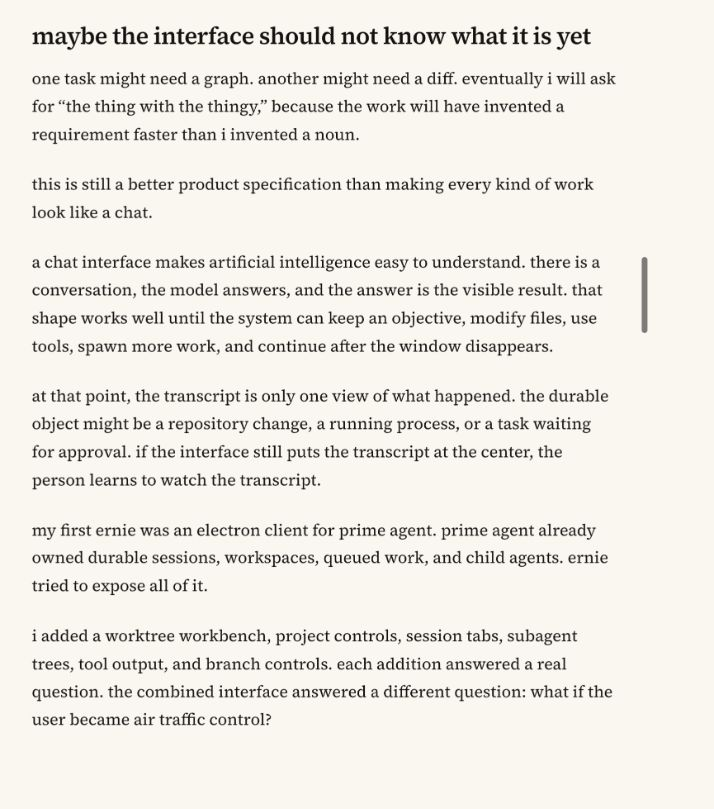
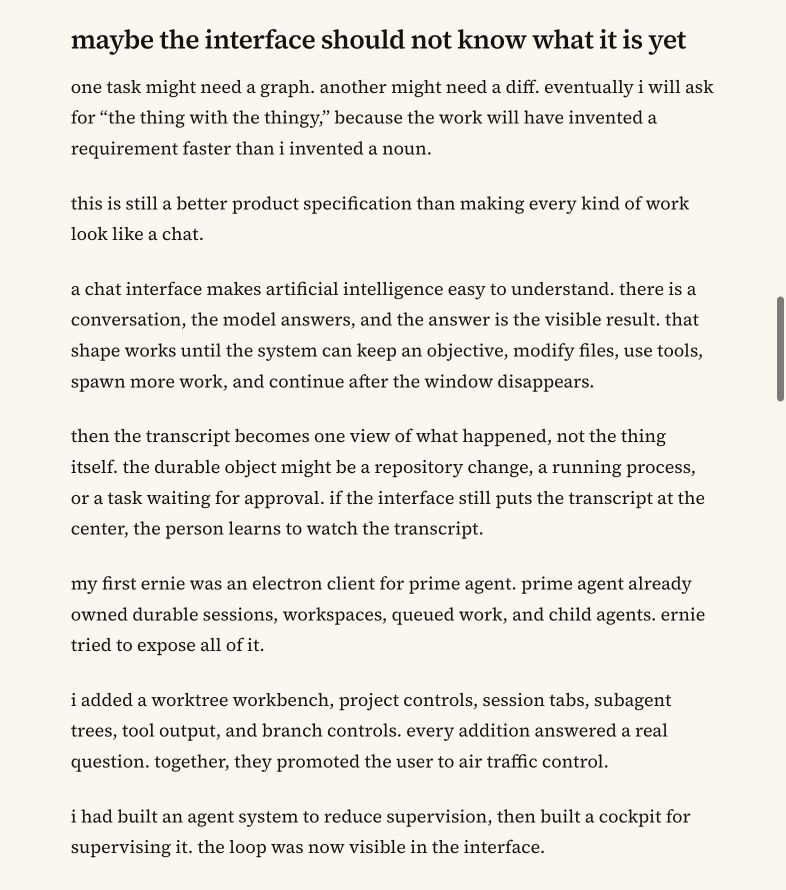
Rewrite Ernie as a deadpan build story

diff --git a/docs/ernie-development.md b/docs/ernie-development.md
@@ -1,42 +1,43 @@
 # i wanted a cooler agent harness and accidentally built two (and forked one)
 
-ernie began with a screenshot i wanted to exist.
+ernie began with a screenshot i wanted to exist. this was not an official
+requirements document, but it had excellent visual coverage.
 
-before the screenshot, i wanted one task to keep its context while i passed it
-from my laptop into a sandbox and back again. changing the execution environment
-should not have meant starting the work’s story over. the repository, the
-decisions, and the unfinished parts should still belong to the same task.
+underneath the screenshot was a smaller and more stubborn requirement. i
+wanted one task to keep its context while i passed it from my laptop into a
+sandbox and back again. changing the execution environment should not have
+meant starting the work’s story over. the repository, the decisions, and the
+unfinished parts should still belong to the same task.
 
-that was why i kept reaching for the words “server” and “daemon” before i could
-properly explain the rest of the system. the server could own the durable task,
-while a daemon translated that task into work inside each environment. the
-context needed to live somewhere that neither my laptop nor a temporary sandbox
-owned.
+this was why i kept saying “server” and “daemon” before i could explain the
+rest of the system. the architecture arrived as nouns. the server could own
+the durable task. a daemon could translate that task into work inside each
+environment. the context needed to live somewhere that neither my laptop nor a
+temporary sandbox owned.
 
-i wanted a desktop app where agents could keep working after i closed the
-window. their sessions would stay attached to repositories, their work would
-branch, and the evidence would still be there when i came back. ideally, the
-whole thing would look cool enough that i could point at it and say “agent
-harness” without having to explain what i had been doing all week.
+i also wanted a desktop app where agents could keep working after i closed the
+window. sessions would stay attached to repositories, work would branch, and
+the evidence would still be there when i came back. ideally, the app would look
+cool enough that i could point at it and say “agent harness” without explaining
+what i had been doing all week.
 
 wanting to look cool is not the official reason people give for starting
 software projects. it is, however, the reason i actually had.
 
-there was another idea underneath it. tools do not remain passive for long.
-people build a tool around one set of habits, then the tool makes those habits
-easier, and eventually the surrounding environment assumes everyone has
-adopted them.
+there was a theory under that motive. tools do not remain passive for long.
+people build a tool around one set of habits. the tool makes those habits
+easier. eventually, the surrounding environment assumes everyone has adopted
+them.
 
-cars are the obvious example. a car lets one person travel farther, but a city
-full of cars needs roads, parking, traffic lights, petrol stations, wider
+cars are the obvious example. a car lets one person travel farther. a city full
+of cars needs roads, parking, traffic lights, petrol stations, wider
 intersections, and buildings separated by car-sized distances. once that
 environment exists, owning a car becomes less optional. the machine changed
 the city, and the changed city made the machine necessary.
 
-software works on a smaller scale, which makes it easier to miss. an unread
-badge turns messages into obligations. infinite scroll removes the point where
-you would have stopped. a chat box teaches you to type something, wait, and
-read the reply.
+software can do this with less asphalt. an unread badge turns messages into
+obligations. infinite scroll removes the point where you would have stopped. a
+chat box teaches you to type something, wait, and read the reply.
 
 i wondered what the usual chat box was teaching us about agents.
 
@@ -51,110 +52,104 @@ look like a chat.
 
 a chat interface makes artificial intelligence easy to understand. there is a
 conversation, the model answers, and the answer is the visible result. that
-shape works well until the system can keep an objective, modify files, use
-tools, spawn more work, and continue after the window disappears.
+shape works until the system can keep an objective, modify files, use tools,
+spawn more work, and continue after the window disappears.
 
-at that point, the transcript is only one view of what happened. the durable
-object might be a repository change, a running process, or a task waiting for
-approval. if the interface still puts the transcript at the center, the person
-learns to watch the transcript.
+then the transcript becomes one view of what happened, not the thing itself.
+the durable object might be a repository change, a running process, or a task
+waiting for approval. if the interface still puts the transcript at the
+center, the person learns to watch the transcript.
 
 my first ernie was an electron client for prime agent. prime agent already
 owned durable sessions, workspaces, queued work, and child agents. ernie tried
 to expose all of it.
 
 i added a worktree workbench, project controls, session tabs, subagent trees,
-tool output, and branch controls. each addition answered a real question. the
-combined interface answered a different question: what if the user became air
-traffic control?
+tool output, and branch controls. every addition answered a real question.
+together, they promoted the user to air traffic control.
 
-i spent more time supervising the agent system i had built to reduce
-supervision. this seemed inefficient, even by the generous standards of a
-personal research project.
+i had built an agent system to reduce supervision, then built a cockpit for
+supervising it. the loop was now visible in the interface.
 
-on august 10, i removed the interface. the first commit reported
+on august 10, i tested a smaller design through subtraction. the first commit
+reported
 [10,338 deletions](https://github.com/thoriqakbar0/ernie/commit/dabf6d974129ade57ee3633f266b562047d0c9ba).
 two minutes later, the second reported
 [12,824 deletions](https://github.com/thoriqakbar0/ernie/commit/63a757b7c2b93e32fe0342f4d65226772cb4399d).
 git recorded 23,162 deleted lines across the two commits.
 
-all 23,162 deletions established was that i had built enough interface to
-require two trips to remove it. whether the replacement was better remained
-unknown.
+this proved that i had built enough interface to require two trips to remove
+it. whether the replacement was better remained unknown.
 
 the smaller version drew a clearer boundary. prime agent would continue to own
 execution and durable state. ernie would decide how a person encountered that
 work. a conversation could live inside an agent without becoming the agent’s
-identity, and evidence could remain available without covering the screen at
-all times.
+identity. evidence could stay available without covering the screen at all
+times.
 
-the result was calmer and easier for me to explain. i responded to this
-progress by replacing it with a much larger repository.
+the result was calmer and easier for me to explain. i celebrated by replacing
+it with a much larger repository.
 
-## the repository already knew how to be a company
+## the repository had already hired departments
 
 on august 13, i forked [bb](https://github.com/get-bb/bb). bb is an agent ide
 with a server, a host daemon, web and desktop applications, plugins, deployment
-workflows, nightly releases, signing, and apple notarization.
+workflows, nightly releases, and signing.
 
 my ernie had open questions. bb had departments.
 
 for a short time, the bb fork took the ernie name and the smaller app became
 ernie legacy. this gave me a serious codebase with working answers to problems
-i had not reached yet. it also gave me responsibility for those answers.
+i had not reached yet. it also made those answers my responsibility.
 
-then apple sent me a notarization notification.
-
-the workflow had submitted a desktop build, apple had processed it, and the
-system had reported the result. nothing was broken. this was worse, because i
-could not blame a bug. the repository was behaving correctly while i slowly
-realized that “help me build this app” had expanded into nightly publishing,
-release channels, signing, deployment, and the administrative life of a
-software company.
+none of this was broken. that was the problem. “help me build this app” had
+expanded into nightly publishing, release channels, signing, deployment, and
+the administrative life of a software company.
 
 i wanted to learn how an agent harness worked. i was learning how to operate
 somebody else’s product.
 
 so the names changed again. the bb fork became
-[`ernie-bb-archive`](https://github.com/thoriqakbar0/ernie-bb-archive), and the
-standalone app became [`ernie`](https://github.com/thoriqakbar0/ernie) again.
+[ernie-bb-archive](https://github.com/thoriqakbar0/ernie-bb-archive), and the
+standalone app became [ernie](https://github.com/thoriqakbar0/ernie) again.
 
 github records one literal fork here. i count the earlier rebuild and the later
 repository reversal as two attempts to replace the foundation. github’s
 version is better for network graphs. mine explains the week.
 
-## i did want something from the larger harnesses
+## i wanted the harness parts, not the company
 
 the fork was not wasted. it showed me which parts of a mature harness were
-worth understanding separately from its product machinery.
+worth understanding separately from the machinery that publishes and operates
+the product around it.
 
-a model can produce text and request tools, but it does not own a workspace,
-retain a loop, reconnect after failure, ask for approval, or decide what
-evidence makes a task complete. the harness supplies those rules. it determines
-what the model can see, how actions run, where state survives, and when a person
-has to intervene.
+a model can produce text and request tools. it does not own a workspace, retain
+a loop, reconnect after failure, ask for approval, or decide what evidence
+makes a task complete. the harness supplies those rules. it determines what the
+model can see, how actions run, where state survives, and when a person has to
+intervene.
 
 [bb’s agent runtime](https://github.com/get-bb/bb/tree/75c3ea0311601d8e41d6e523d8e4848526e272d5/packages/agent-runtime)
 gave me a useful example of provider ownership. its shared runtime manages
-lifecycle and routing, while each provider adapter handles the provider’s
-protocol. a separate bridge process appears when a provider offers an sdk but
-not a stable wire protocol. it is there to solve a specific transport problem,
-not because every architecture diagram needs another box.
+lifecycle and routing. each provider adapter handles the provider’s protocol.
+a separate bridge process appears when a provider offers an sdk but not a
+stable wire protocol. the bridge solves that transport problem. it is not
+there because the architecture diagram looked lonely.
 
 [deepseek harness](https://github.com/deepseek-ai/DeepSeek-Harness/tree/47f943859bef60e4160492346772ded9b24f765a)
 made a different boundary visible. tools, interfaces, and capabilities enter
 through plugins instead of accumulating as permanent branches in one central
 loop. the project calls itself a developer preview and warns that compatibility
-will break. that warning is inconvenient if you need a stable dependency. it
-is useful if you are trying to see which decisions are still moving.
+will break. this is inconvenient if you need a stable dependency. it is useful
+if you are trying to see which decisions are still moving.
 
-i did not need to become bb or deepseek harness. i needed to understand why
-they put certain responsibilities on opposite sides of a boundary.
+i did not need ernie to become bb or deepseek harness. i needed to understand
+why they placed certain responsibilities on opposite sides of a boundary.
 
 ernie still does not make the environment handoff seamless. the
-server-and-thingy language came before the implementation. but the instinct
-behind it survived: durable task context should not belong to any one host
-daemon, so work can leave my laptop, run inside a sandbox, and return without
+server-and-thingy language arrived before the implementation. the useful part
+survived: durable task context should not belong to any one host daemon. work
+should be able to leave my laptop, run inside a sandbox, and return without
 either environment becoming the work itself.
 
 ernie now has a short path from the interface to prime agent:
@@ -165,21 +160,21 @@ renderer -> electron ipc -> ernie daemon -> prime agent adapter -> daemon socket
 
 the ernie daemon presents one application boundary to electron. the prime
 agent adapter owns prime agent’s identity, protocol, connection, and failure
-translation. because prime agent already provides a daemon socket, adding a
-stdio bridge would only create another process for me to misunderstand.
+translation. prime agent already provides a daemon socket, so adding a stdio
+bridge would create another process for me to misunderstand.
 
-## rebuilding may be the feature
+## rebuilding is a very convincing form of progress
 
 the best interface for agents probably has not happened yet. current products
 borrow familiar shapes from chat, editors, terminals, inboxes, and dashboards
 because people already know how to use them. agents can behave differently from
-all five, so some of those borrowed shapes will eventually look strange.
+all five. some of those borrowed shapes will eventually look strange.
 
-experimentation makes sense here, although i can use that uncertainty to
-justify restarting forever.
+this makes experimentation reasonable. it also gives me a technically
+interesting excuse to restart forever.
 
 a clean project feels clear because it has no accumulated compromises. it also
-has no accumulated evidence. if i replace the interface as soon as it resists
+has no accumulated evidence. if i replace an interface as soon as it resists
 me, i never learn whether the problem appears during real work or only while i
 am staring at the design.
 
@@ -195,8 +190,8 @@ later is an interesting way to lose an afternoon.
 
 i still want ernie to look cool. that motive survived all the architecture.
 appearance affects whether a tool feels inviting, whether i want to return to
-it, and whether the work feels like mine. the difference is that i no longer
-want a screenshot to be the only test.
+it, and whether the work feels like mine. i just no longer want the screenshot
+to be the only test.
 
 if ernie needs another foundation after enough use, git will be available. it
 has been extremely available so far.
